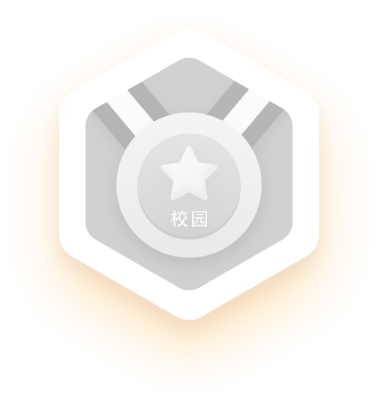
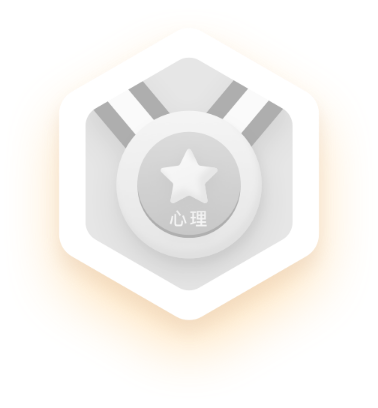
修改答题提交格式

diff --git a/info/question.js b/info/question.js
@@ -24,7 +24,7 @@ var fsquestions = {
 	"questionandkey": [
 		[
 			{
-				"questions": "如何正确佩戴口罩?(多选)",
+				"questions": "1.如何正确佩戴口罩?(多选)",
 				"type": 1,
         "video": "https://fsnewsres.foshanplus.com/news/843ac68e424d49f983a472ef6a6be344.mp4",
         "poster":"./img/videoPoster_1.jpg",
@@ -35,7 +35,7 @@ var fsquestions = {
 				]
 			},
 			{
-				"questions": "使用过的口罩该怎么处理?(单选)",
+				"questions": "2.使用过的口罩该怎么处理?(单选)",
 				"type": 0,
         "video": "https://fsnewsres.foshanplus.com/news/843ac68e424d49f983a472ef6a6be344.mp4",
         "poster":"./img/videoPoster_1.jpg",
@@ -46,21 +46,21 @@ var fsquestions = {
 				]
 			},
 			{
-				"questions": "双手洗干净后，能否用手接触水龙头?(单选)",
+				"questions": "3.双手洗干净后，能否用手接触水龙头?(单选)",
 				"type": 0,
         "video": "https://fsnewsres.foshanplus.com/news/8b06672f337c463fae6959e9919fbc92.mp4",
         "poster":"./img/videoPoster_2.jpg",
 				"keys": ["能", "尽量不"]
 			},
 			{
-				"questions": "在洗擦手的过程中，至少要洗几秒?(单选)",
+				"questions": "4.在洗擦手的过程中，至少要洗几秒?(单选)",
 				"type": 0,
         "video": "https://fsnewsres.foshanplus.com/news/8b06672f337c463fae6959e9919fbc92.mp4",
         "poster":"./img/videoPoster_2.jpg",
 				"keys": ["10秒", "5秒"]
 			},
 			{
-				"questions": "以下关于“七步洗手法”描述正确的是?(多选)",
+				"questions": "5.以下关于“七步洗手法”描述正确的是?(多选)",
 				"type": 1,
         "video": "https://fsnewsres.foshanplus.com/news/8b06672f337c463fae6959e9919fbc92.mp4",
         "poster":"./img/videoPoster_2.jpg",
@@ -73,7 +73,7 @@ var fsquestions = {
 		],
 		[
 			{
-				"questions": "离家返校前如何做(多选)",
+				"questions": "6.离家返校前如何做(多选)",
 				"type": 1,
 				"keys": [
 					"准备好相关的学习用品",
@@ -82,7 +82,7 @@ var fsquestions = {
 				]
 			},
 			{
-				"questions": "进入校园前如何做(多选)",
+				"questions": "7.进入校园前如何做(多选)",
 				"type": 1,
 				"keys": [
 					"保持1米以上间隔排队进行校门测温晨检，体温正常进校门",
@@ -91,7 +91,7 @@ var fsquestions = {
 				]
 			},
 			{
-				"questions": "室内课怎么上?(多选)",
+				"questions": "8.室内课怎么上?(多选)",
 				"type": 1,
 				"keys": [
 					"在会议室、课室、宿舍等封闭、人员密集空间或与他人近距离接触（小于等于1米）时应佩戴口罩",
@@ -100,7 +100,7 @@ var fsquestions = {
 				]
 			},
 			{
-				"questions": "大型活动怎么举行?(多选)",
+				"questions": "9.大型活动怎么举行?(多选)",
 				"type": 1,
 				"keys": [
 					"不举办室内聚集性的活动",
@@ -109,7 +109,7 @@ var fsquestions = {
 				]
 			},
 			{
-				"questions": "体育锻炼及作息如何开展?(多选)",
+				"questions": "10.体育锻炼及作息如何开展?(多选)",
 				"type": 1,
 				"keys": [
 					"学校正常开展体育课，确保体育与健康课程落实",
@@ -118,7 +118,7 @@ var fsquestions = {
 				]
 			},
 			{
-				"questions": "校园环境卫生如何保障?(多选)",
+				"questions": "11.校园环境卫生如何保障?(多选)",
 				"type": 1,
 				"keys": [
 					"疫情解除前停止使用集中空调通风系统，重新开启使用前应规范清洗和消毒",
@@ -127,7 +127,7 @@ var fsquestions = {
 				]
 			},
 			{
-				"questions": "课间活动如何开展?(多选)",
+				"questions": "12.课间活动如何开展?(多选)",
 				"type": 1,
 				"keys": [
 					"课间休息时串班、串年级",
@@ -136,7 +136,7 @@ var fsquestions = {
 				]
 			},
 			{
-				"questions": "就餐如何安排?(多选)",
+				"questions": "13.就餐如何安排?(多选)",
 				"type": 1,
 				"keys": [
 					"规范就餐流程，尽量集中分餐、送餐到班，要分散就餐，避免集中",
@@ -145,7 +145,7 @@ var fsquestions = {
 				]
 			},
 			{
-				"questions": "放学回家如何做?(多选)",
+				"questions": "14.放学回家如何做?(多选)",
 				"type": 1,
 				"keys": [
 					"放学回家不在外逗留",
@@ -154,7 +154,7 @@ var fsquestions = {
 				]
 			},
 			{
-				"questions": "个人日常疫情防控要做到哪些?(多选)",
+				"questions": "15.个人日常疫情防控要做到哪些?(多选)",
 				"type": 1,
 				"keys": [
 					"注册“粤康码”，每天登录依时亮码（可由家长代劳）",
@@ -165,14 +165,14 @@ var fsquestions = {
 		],
 		[
 			{
-				"questions": "赵静波教授在视频中与同学们进行了一个心理小实验，出现的动物是?(单选)",
+				"questions": "16.赵静波教授在视频中与同学们进行了一个心理小实验，出现的动物是?(单选)",
         "type": 0,
         "video": "https://fsnewsres.foshanplus.com/news/e5e8a0e38c094e9c91e55178f81446ca.mp4",
         "poster":"./img/videoPoster_3.jpg",
 				"keys": ["马", "兔子", "猴子"]
 			},
 			{
-				"questions": "赵静波教授在视频中分享的备考锦囊有哪些?(多选)",
+				"questions": "17.赵静波教授在视频中分享的备考锦囊有哪些?(多选)",
         "type": 1,
         "video": "https://fsnewsres.foshanplus.com/news/e5e8a0e38c094e9c91e55178f81446ca.mp4",
         "poster":"./img/videoPoster_3.jpg",
@@ -184,7 +184,7 @@ var fsquestions = {
 				]
 			},
 			{
-				"questions": "进行呼吸放松时第一步应该是?(单选)",
+				"questions": "18.进行呼吸放松时第一步应该是?(单选)",
         "type": 0,
         "video": "https://fsnewsres.foshanplus.com/news/e5e8a0e38c094e9c91e55178f81446ca.mp4",
         "poster":"./img/videoPoster_3.jpg",
@@ -195,14 +195,14 @@ var fsquestions = {
 				]
 			},
 			{
-				"questions": "情绪管理的步骤包括觉察情绪、命名情绪、接纳情绪、表达情绪和？(单选)",
+				"questions": "19.情绪管理的步骤包括觉察情绪、命名情绪、接纳情绪、表达情绪和？(单选)",
         "type": 0,
         "video": "https://fsnewsres.foshanplus.com/news/e5e8a0e38c094e9c91e55178f81446ca.mp4",
         "poster":"./img/videoPoster_3.jpg",
 				"keys": ["对", "错"]
 			},
 			{
-				"questions": "佛山市24小时心理援助热线是0757-82667888?(单选)",
+				"questions": "20.佛山市24小时心理援助热线是0757-82667888?(单选)",
         "type": 0,
         "video": "https://fsnewsres.foshanplus.com/news/e5e8a0e38c094e9c91e55178f81446ca.mp4",
         "poster":"./img/videoPoster_3.jpg",

diff --git a/control/func/answer.js b/control/func/answer.js
@@ -92,26 +92,19 @@ function next() {
 		choiceSelection = null
 	}
 	if (choiceSelections.length > 0) {
+    choiceSelections = choiceSelections.sort()
 		totalAnswer.push(choiceSelections.join(','))
 		choiceSelections = []
 	}
 	if (examIndex < currentExercises.length) {
-		actionOut(
-			'#choices-container',
-			'action_scaleOut',
-			0.4,
-			'linear',
-			() => {
-				var choicesContainer = document.getElementById(
-					'choices-container'
-				)
-				choicesContainer.innerHTML = ''
-				var exercise = currentExercises[examIndex]
-				initChoicesView(exercise)
-				initVideo(exercise)
-				refreshNextState()
-			}
-		)
+		actionOut('#choices-container', 'action_scaleOut', 0.4, 'linear', () => {
+			var choicesContainer = document.getElementById('choices-container')
+			choicesContainer.innerHTML = ''
+			var exercise = currentExercises[examIndex]
+			initChoicesView(exercise)
+			initVideo(exercise)
+			refreshNextState()
+		})
 	} else {
 		// 最后一关
 		if (passIndex === 2) {
@@ -192,7 +185,7 @@ function checkScore() {
 
 // 打卡按钮
 function createPoster() {
-	$.fn.fullpage.moveTo(6,0)
+	$.fn.fullpage.moveTo(6, 0)
 }
 
 // 第几道题
@@ -227,10 +220,16 @@ function actionIn(obj, actionName, time, speed) {
 		'-webkit-animation': actionName + ' ' + time + 's' + ' ' + speed,
 		'-webkit-animation-fill-mode': 'forwards',
 	})
+
+	// setTimeout(() => {
+	// 	$(obj).css({ visibility: 'visible' })
+	// }, 300)
 }
 
 /*obj,actionName,speed都是 string,time(秒)是int类型*/
 function actionOut(obj, actionName, time, speed, callBack) {
+	console.log('隐藏')
+	console.log(actionName + ' ' + time + 's' + ' ' + speed)
 	$(obj).css({
 		animation: actionName + ' ' + time + 's' + ' ' + speed,
 		'-webkit-animation': actionName + ' ' + time + 's' + ' ' + speed,

diff --git a/control/style/answer.css b/control/style/answer.css
@@ -12,8 +12,8 @@
 }
  
 @keyframes action_translateY{
-	0%{transform: translateY(50px);opacity: 0;}
-	100%{ transform: translateY(0px);opacity: 1;}
+	0%{transform: translateX(150px);opacity: 0;}
+	100%{ transform: translateX(0px);opacity: 1;}
 }
  
 @keyframes action_scale{
@@ -39,8 +39,8 @@
 }
  
 @keyframes action_translateYOut{
-	0%{transform: translateY(0px);opacity: 1;}
-	100%{ transform: translateY(50px);opacity: 0;}
+	0%{transform: translateX(0px);opacity: 1;}
+	100%{ transform: translateX(150px);opacity: 0;}
 }
  
 @keyframes action_scaleOut{
@@ -50,4 +50,28 @@
 @-webkit-keyframes action_scaleOut{
 	0%{transform: scale(1);opacity: 1;}
 	100%{ transform: scale(0.2);opacity: 0;}
+}
+
+@keyframes fadeIn {
+  0% {
+  opacity: 0; /*初始状态 透明度为0*/
+  }
+  50% {
+  opacity: 0.5; /*中间状态 透明度为0*/
+  }
+  100% {
+  opacity: 1; /*结尾状态 透明度为1*/
+  }
+}
+
+@keyframes fadeOut {
+  0% {
+  opacity: 1; /*初始状态 透明度为0*/
+  }
+  50% {
+  opacity: 0.5; /*中间状态 透明度为0*/
+  }
+  100% {
+  opacity: 0; /*结尾状态 透明度为1*/
+  }
 }

diff --git a/control/func/pass.js b/control/func/pass.js
@@ -29,12 +29,13 @@ function initPassView(passIndex) {
 	if (passIndex > 2) {
 		return
 	}
-	var topTitles = ['一', '二', '三']
+  var topTitles = ['一', '二', '三']
+  var medalTitles = ['卫生','校园','心理']
 	var topTitle = $('#passFinish .top-medalContainer .title')
 	var topMedal = $('#passFinish .top-medalContainer .icon')
 	var bottomItems = Array.from($('#passFinish .bottom-medalContainer .item'))
 	topTitle.text(
-		'恭喜你完成第' + topTitles[passIndex] + '关，成功获得一枚勋章'
+    '恭喜你完成第'+ topTitles[passIndex] +'关， 成功获得一枚'+ medalTitles[passIndex] + '防疫勋章'
 	)
 	topMedal.attr('src', './img/topMedal-' + (passIndex + 1) + '.png')
 	bottomItems.forEach((element, index) => {

diff --git a/control/style/main.css b/control/style/main.css
@@ -161,7 +161,7 @@ button:focus {
 
 .top-medalContainer .title {
   position: absolute;
-  top: 55px;
+  bottom: 55px;
   line-height: 18px;
   font-weight: 500;
   text-align: center;
